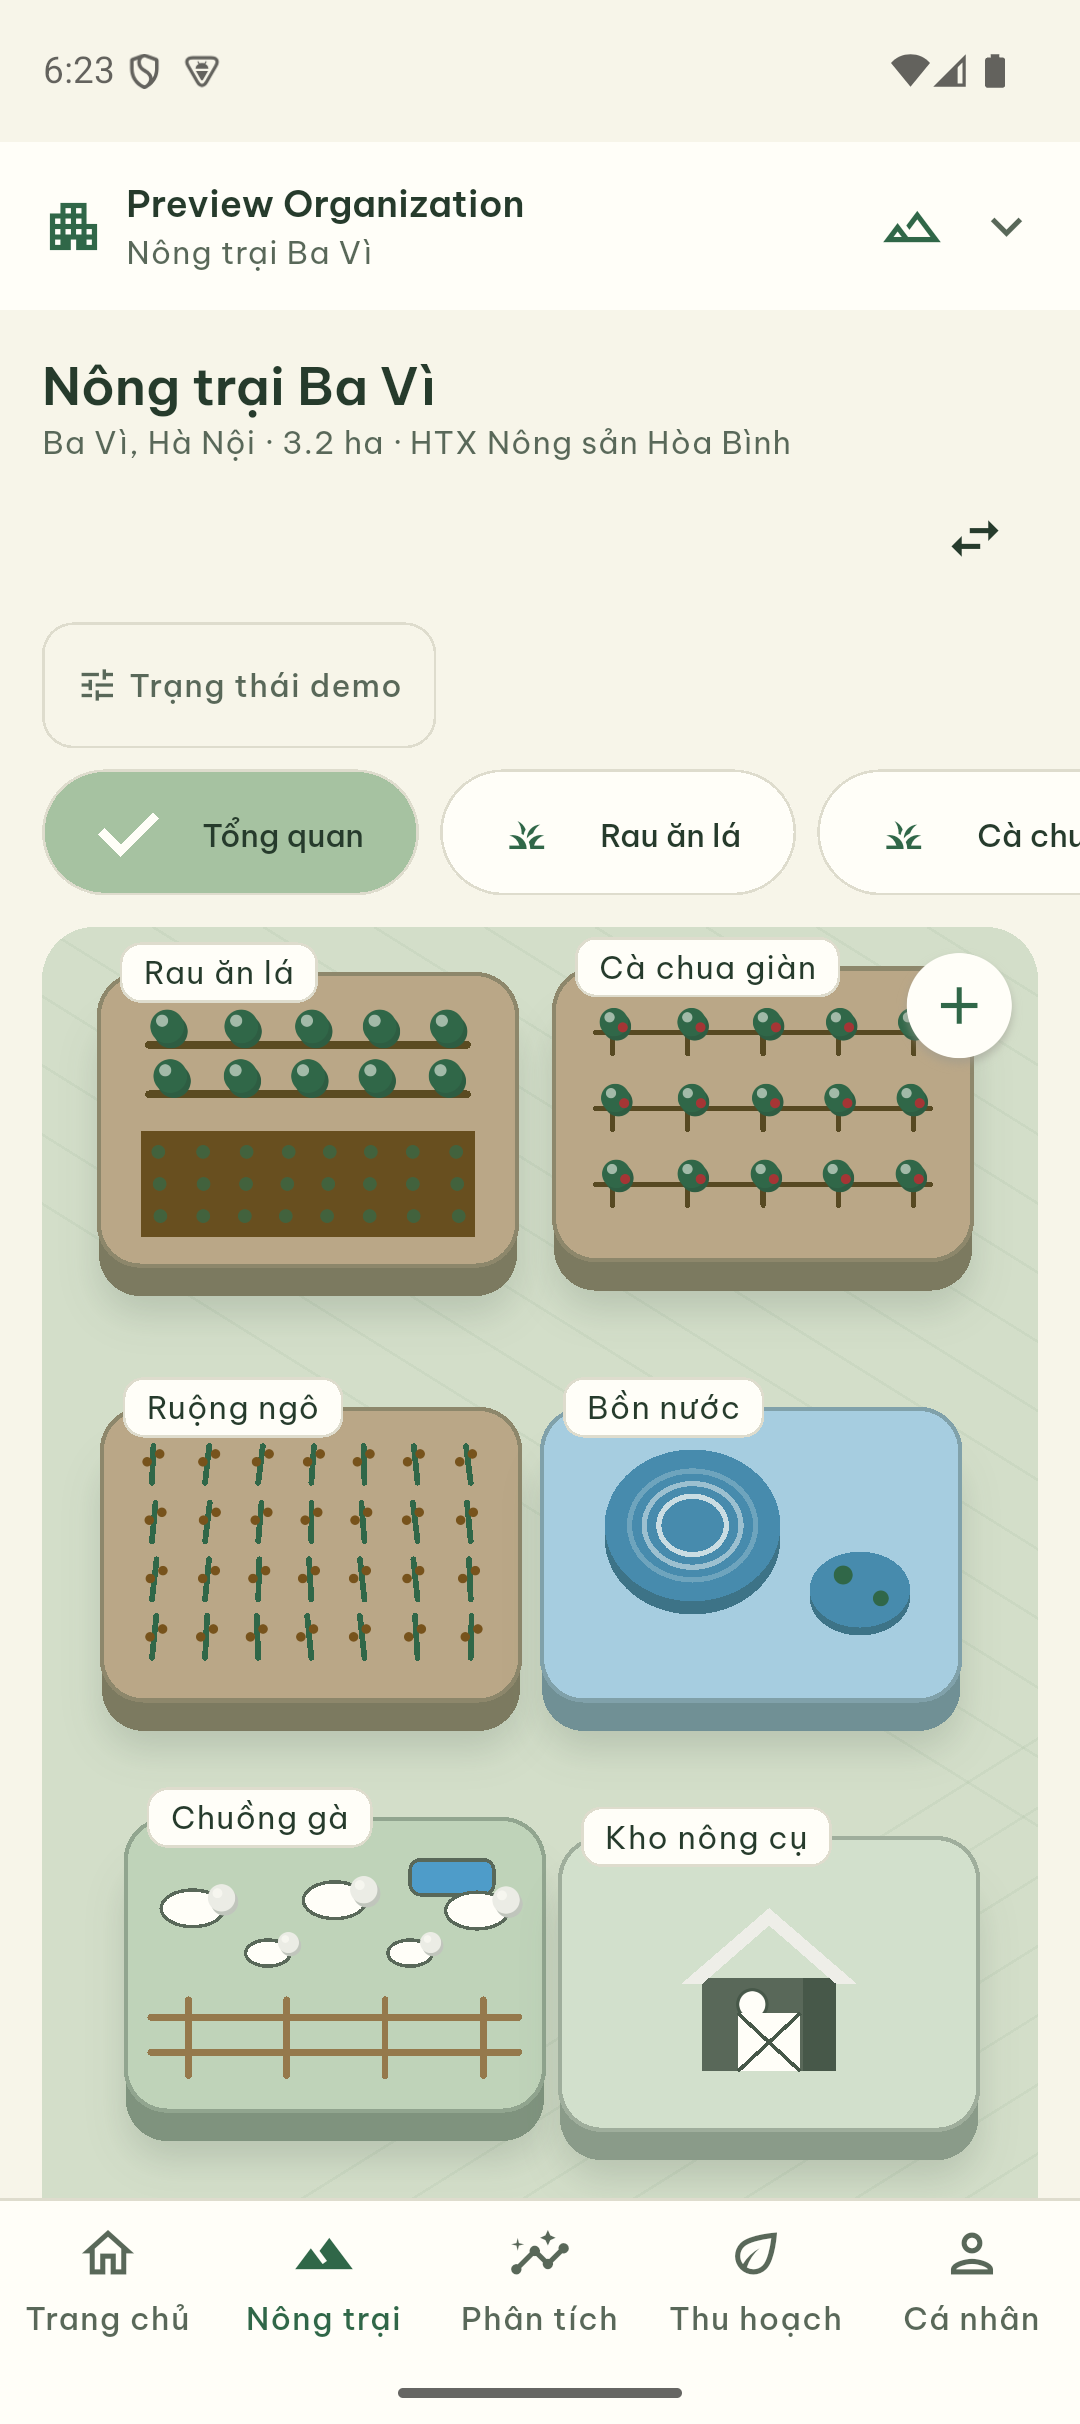
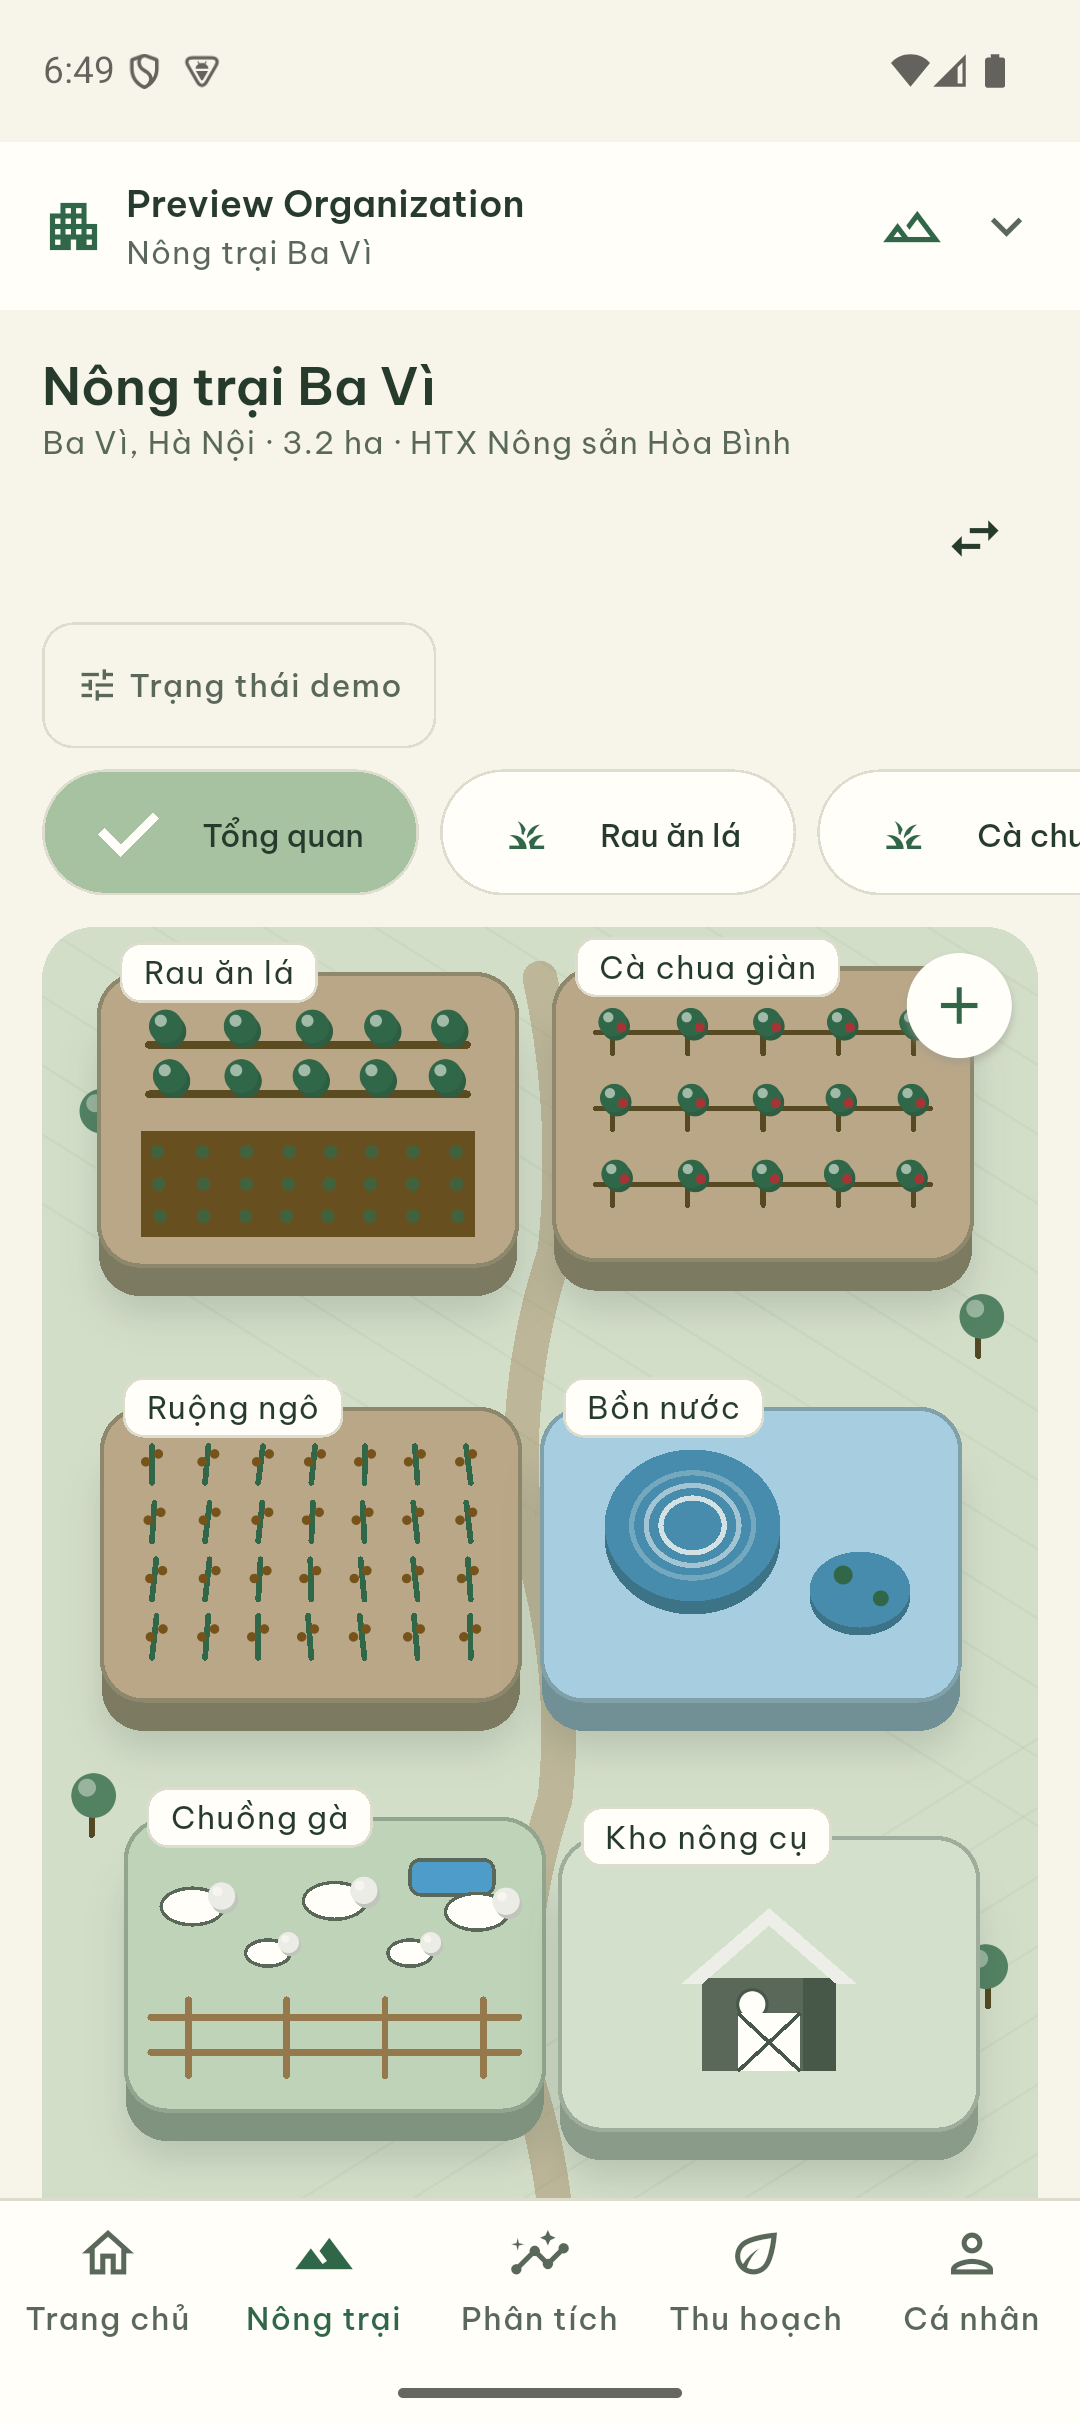
feat(mobile): board-game ground — winding path, edge trees, kind chip
- Dirt walkway meanders down the centre gap between the two plot columns,
  like the reference board's path between plots
- Decorative trunk-and-canopy trees along the map edges sway a few px on
  the ambient phase, matching the crop sway
- Selected-zone card under the map now carries a real zone-kind chip
  (Trồng trọt / Chăn nuôi / Nước / Kho / Nhà) — factual metadata, no
  fabricated health claim
- Refreshed the farm-map README screenshot to the new board

diff --git a/apps/mobile/lib/ui/zone_explorer.dart b/apps/mobile/lib/ui/zone_explorer.dart
@@ -238,8 +238,10 @@ class _ZoneSceneState extends State<ZoneScene> with TickerProviderStateMixin {
                     builder: (context, phase) => Stack(
                       clipBehavior: Clip.none,
                       children: [
-                      const Positioned.fill(
-                        child: CustomPaint(painter: _IsoGroundPainter()),
+                      Positioned.fill(
+                        child: CustomPaint(
+                          painter: _IsoGroundPainter(phase: phase),
+                        ),
                       ),
                       // Painter order: iso rows back-to-front so nearer
                       // tiles overdraw further ones correctly.
@@ -370,7 +372,10 @@ class _ZoneSceneState extends State<ZoneScene> with TickerProviderStateMixin {
 
 /// Soft green base plane under the iso tiles (light grid of plot lines).
 class _IsoGroundPainter extends CustomPainter {
-  const _IsoGroundPainter();
+  const _IsoGroundPainter({this.phase = 0});
+
+  /// Ambient phase — edge trees sway a touch so the board feels alive.
+  final double phase;
 
   @override
   void paint(Canvas canvas, Size size) {
@@ -404,10 +409,75 @@ class _IsoGroundPainter extends CustomPainter {
         line,
       );
     }
+
+    // Winding dirt walkway down the board's centre gap — the reference map
+    // threads a path between the two plot columns.
+    final dirt = Paint()
+      ..color = Color.lerp(
+        FarmlyColors.semanticWarning,
+        FarmlyColors.surface,
+        0.35,
+      )!
+          .withValues(alpha: 0.5)
+      ..style = PaintingStyle.stroke
+      ..strokeWidth = size.width * 0.035
+      ..strokeCap = StrokeCap.round;
+    final path = Path()..moveTo(size.width * 0.5, size.height * 0.03);
+    for (var i = 0; i < 6; i++) {
+      final y = size.height * (0.03 + (i + 1) * 0.16);
+      final xOff = (i.isEven ? 1 : -1) * size.width * 0.015;
+      path.quadraticBezierTo(
+        size.width * 0.5 + xOff * 2,
+        size.height * (0.03 + i * 0.16 + 0.08),
+        size.width * 0.5 + xOff,
+        y,
+      );
+    }
+    canvas.drawPath(path, dirt);
+
+    // Decorative edge trees — canopy spheres with a trunk, leaning a couple
+    // of px on the ambient phase like the crop sway.
+    final trunk = Paint()
+      ..color = Color.lerp(
+        FarmlyColors.semanticWarning,
+        FarmlyColors.textPrimary,
+        0.45,
+      )!
+      ..strokeWidth = 2.4
+      ..strokeCap = StrokeCap.round;
+    final canopy = Paint()
+      ..color = Color.lerp(
+        FarmlyColors.brandAction,
+        FarmlyColors.brandSage,
+        0.3,
+      )!;
+    final spots = <Offset>[
+      Offset(size.width * 0.06, size.height * 0.12),
+      Offset(size.width * 0.94, size.height * 0.24),
+      Offset(size.width * 0.05, size.height * 0.52),
+      Offset(size.width * 0.95, size.height * 0.62),
+      Offset(size.width * 0.07, size.height * 0.88),
+    ];
+    for (var i = 0; i < spots.length; i++) {
+      final p0 = spots[i];
+      final sway = math.sin(phase * 2 * math.pi + i * 1.3) * 1.4;
+      canvas.drawLine(
+        Offset(p0.dx, p0.dy + 7),
+        Offset(p0.dx, p0.dy - 2),
+        trunk,
+      );
+      canvas.drawCircle(Offset(p0.dx + sway, p0.dy - 8), 8.5, canopy);
+      canvas.drawCircle(
+        Offset(p0.dx + sway - 2.5, p0.dy - 11),
+        3.4,
+        Paint()..color = FarmlyColors.surface.withValues(alpha: 0.4),
+      );
+    }
   }
 
   @override
-  bool shouldRepaint(_IsoGroundPainter oldDelegate) => false;
+  bool shouldRepaint(_IsoGroundPainter oldDelegate) =>
+      oldDelegate.phase != phase;
 }
 
 /// Pill label above each tile, like the reference zone tags.

diff --git a/apps/mobile/lib/features/farm/farm_overview_screen.dart b/apps/mobile/lib/features/farm/farm_overview_screen.dart
@@ -277,12 +277,31 @@ class _ZonePanel extends ConsumerWidget {
                     softWrap: true,
                   ),
                 ),
-                Text(
+                Container(
+                  padding: const EdgeInsets.symmetric(
+                    horizontal: 8,
+                    vertical: 3,
+                  ),
+                  decoration: BoxDecoration(
+                    color: tokens.brandSage.withValues(alpha: 0.4),
+                    borderRadius: BorderRadius.circular(8),
+                  ),
+                  child: Text(
+                    _zoneKindLabel(selectedZone.kind),
+                    style: Theme.of(context).textTheme.labelSmall?.copyWith(
+                      color: tokens.textPrimary,
+                    ),
+                  ),
+                ),
+                const SizedBox(width: FarmSpacing.sm),
+                Flexible(
+                  child: Text(
                   selectedZone.subtitle ?? '',
                   style: Theme.of(context).textTheme.labelMedium?.copyWith(
                     color: tokens.textSecondary,
                   ),
                   softWrap: true,
+                  ),
                 ),
               ],
             ),
